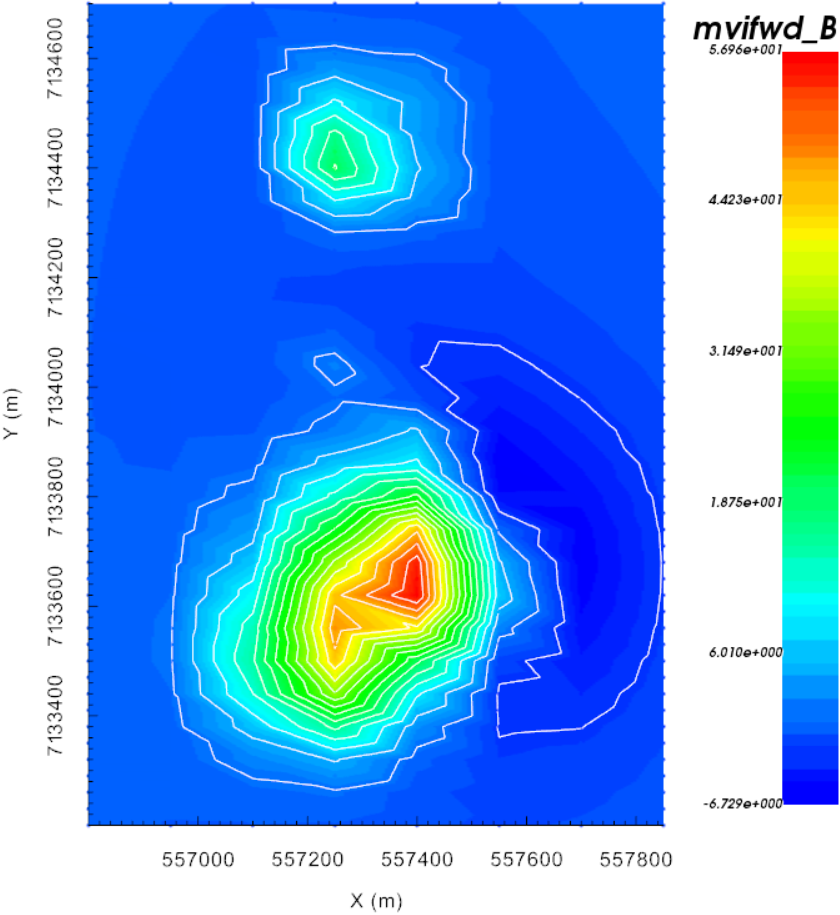
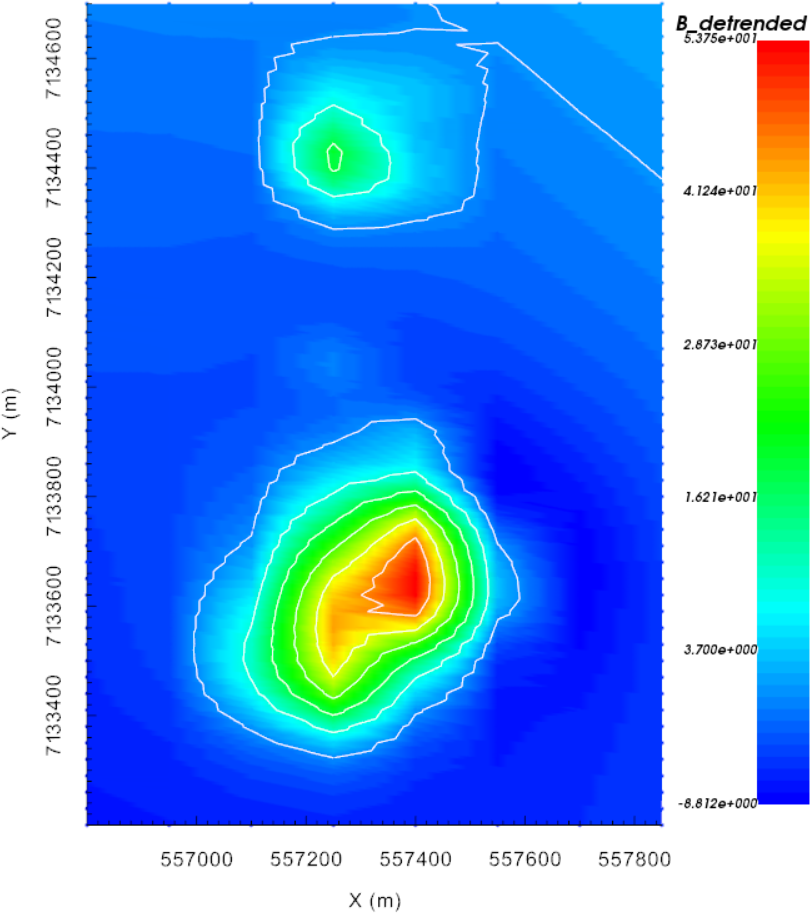
Edits to AtoZ mag MVI. Update de-trended figure

diff --git a/content/AtoZ/magnetic/MVI.rst b/content/AtoZ/magnetic/MVI.rst
@@ -17,7 +17,7 @@ Downloads
 
 .. example::    - `Download the demo <https://github.com/ubcgif/GIFtoolsCookbook/raw/master/assets/AtoZ_mag_4Download.zip>`_
                     - Requires at least `GIFtools version 2.1.3 (Oct 2017) <https://gif.eos.ubc.ca/GIFtools/downloads2#Installation>`_
-                    - Requires `MVI v2.0 <http://gif.eos.ubc.ca/GIFtools>`_
+                    - Requires `MVI v3.0 <http://gif.eos.ubc.ca/GIFtools>`_
 
 
 Step by step
@@ -34,15 +34,14 @@ Step by step
     - :ref:`Import the topography data <importTopo>`
 
 - **Step 2: Survey and Data**
-    - :ref:`Import the magnetic data in UBC format <magfile>`
+    - :ref:`Import the magnetic data from XYZ <AtoZ_mag_loadXYZ>`
 
 .. _AtoZMagMVI_Step3:
 
 - **Step 3: Processing**
-    - :ref:`Create an inversion object (MVI 2.0)<createMagInv>`
+    - :ref:`Create an inversion object (MVI v3.0)<createMagInv>`
         - :ref:`Edit the options <fwdEditOptions_MVI>`
             - Panel 1: Fill out Sensitivity Options (must use MVI data)
-            - Panel 2: Adjust :math:`\alpha` parameters, same as :ref:`here <AtoZMag_alphaOpt>`
             - Click *Apply and write files*
 
 .. _AtoZMVI_C:

diff --git a/content/AtoZ/magnetic/MagSusc.rst b/content/AtoZ/magnetic/MagSusc.rst
@@ -36,6 +36,8 @@ Step by step
 
     *Click on image*
 
+.. _AtoZ_mag_loadXYZ:
+
 - **Step 2: Survey and Data**
     - :ref:`Import magnetic data in XYZ format <importMagData>`. The data being imported are TMI data.
 

diff --git a/content/AtoZ/magnetic/MagAmp.rst b/content/AtoZ/magnetic/MagAmp.rst
@@ -88,4 +88,4 @@ Synthesis
 
 .. figure:: ./../../../images/AtoZ_Mag/AtoZ_Mag_invAmpCompact.png
             :align: center
-            :scale: 75%
+
